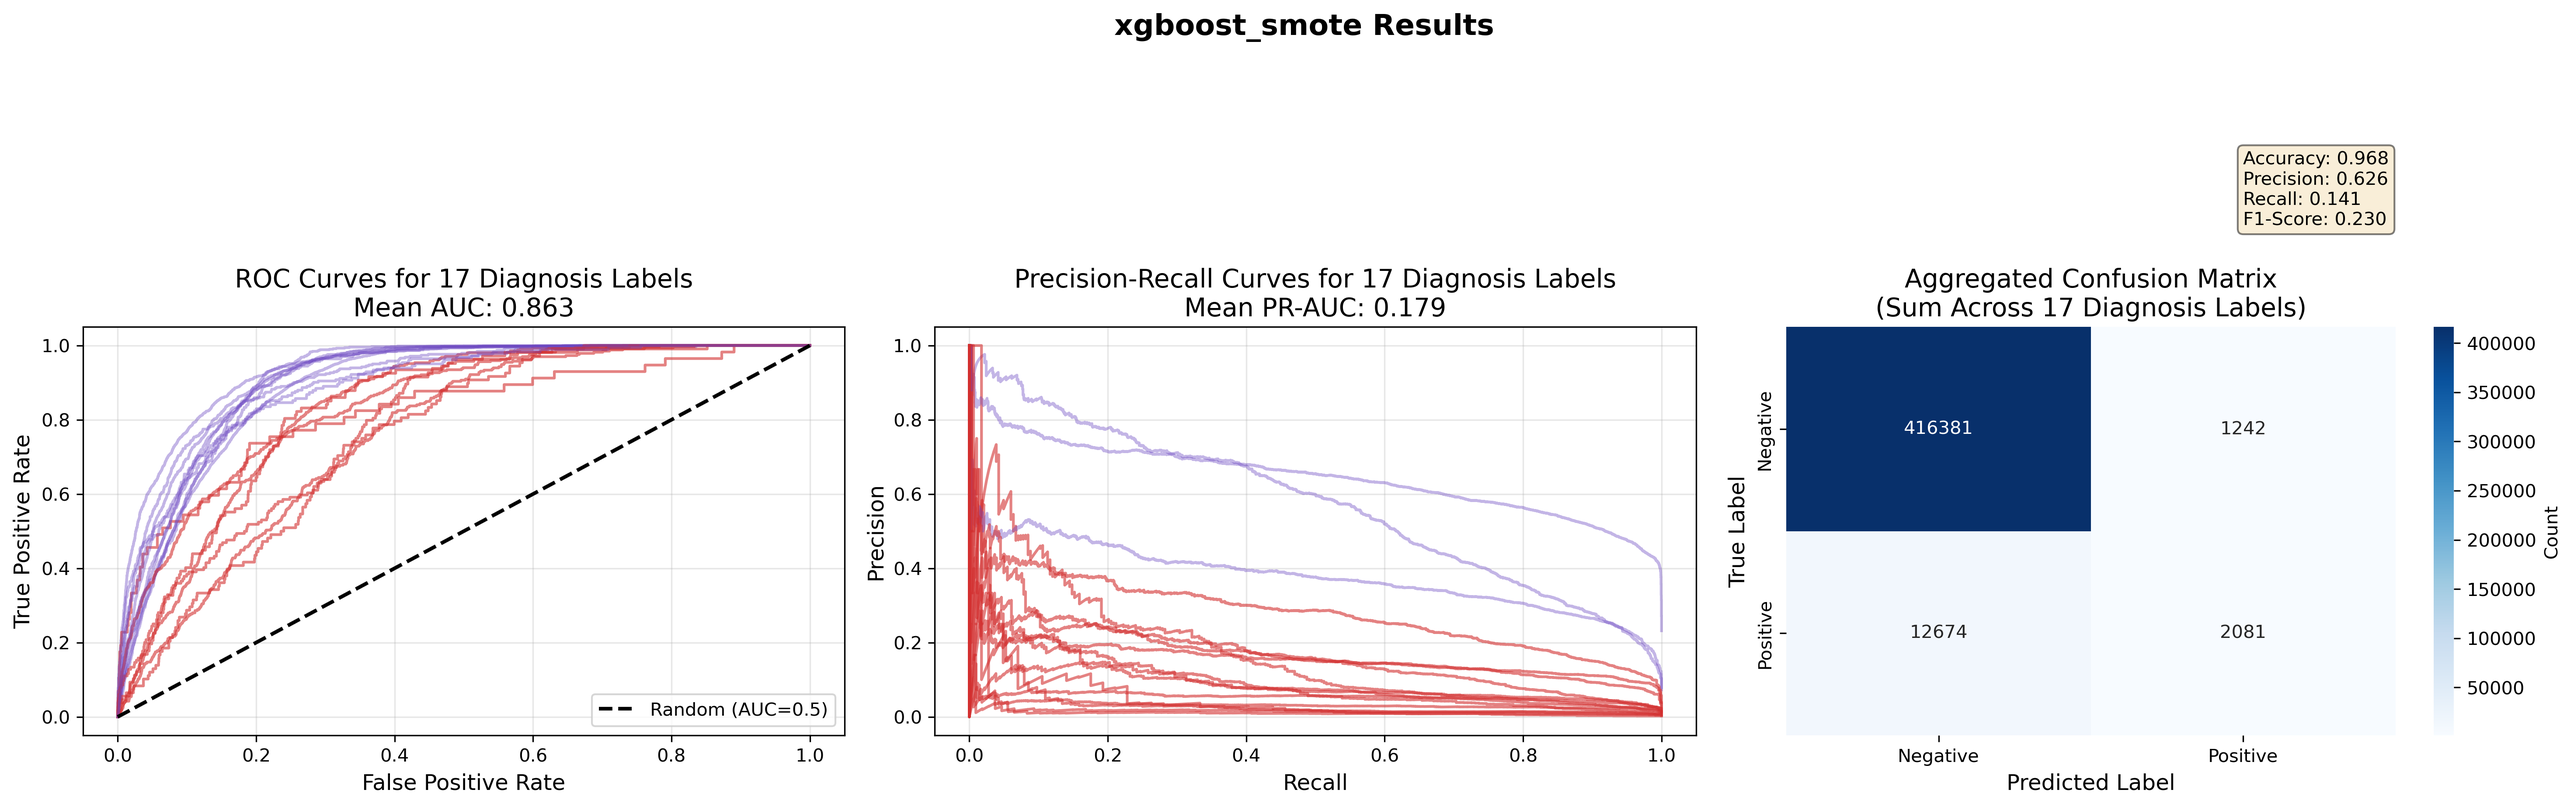
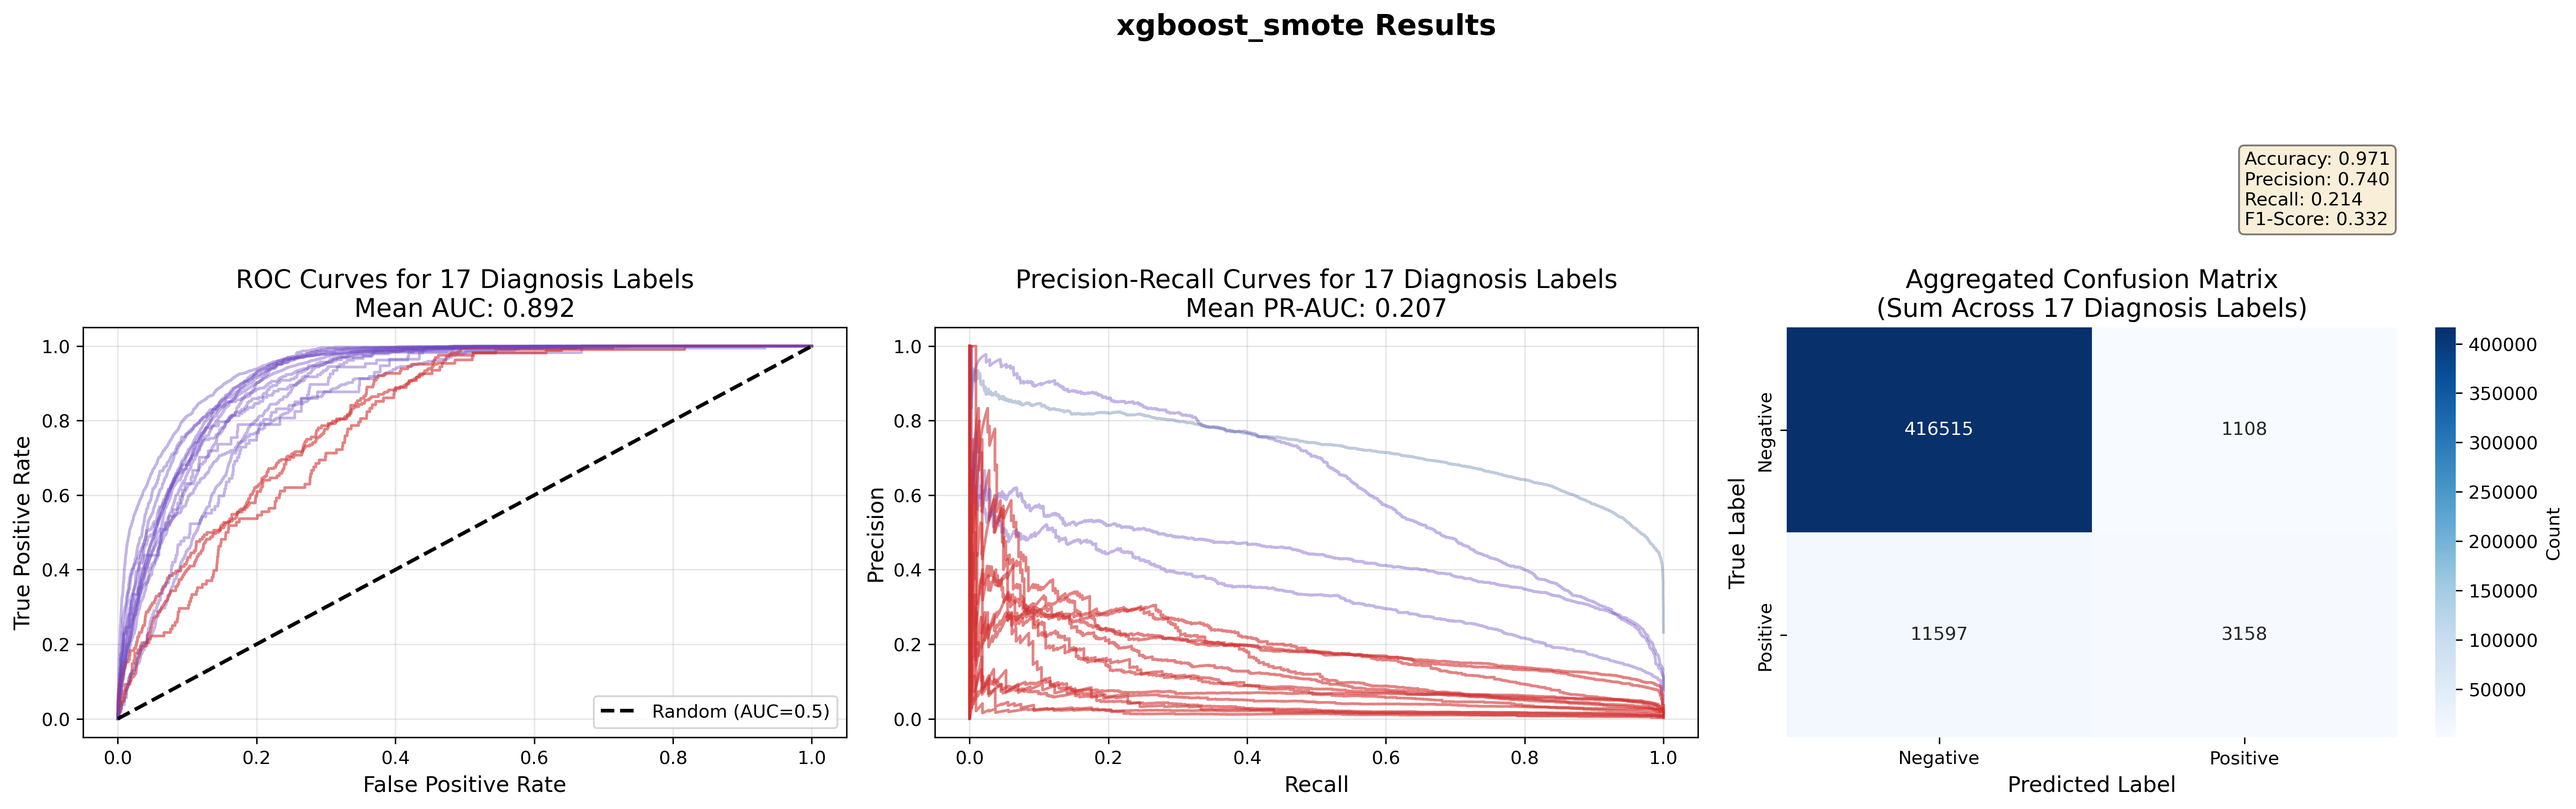
Adding mlp results

diff --git a/src/models/xgboost.py b/src/models/xgboost.py
@@ -1,6 +1,5 @@
 import warnings
 warnings.filterwarnings("ignore", category=FutureWarning, module="sklearn")
-
 import warnings
 import sys
 from tqdm import tqdm
@@ -19,7 +18,6 @@ from src.models.tabular_utils import (
     create_train_test_set,
     scale_features,
     compute_scale_pos_weights,
-    smote_resample_low_prevalence,
     evaluate_and_visualize_multilabel_model,
 )
 
@@ -198,11 +196,84 @@ def run_xgboost_weighted_pipeline(in_dir, config_path, out_path):
 
 
 # =============================================================================
-# SMOTE (normalized + SMOTE on labels < 3% prevalence)
+# Capped SMOTE helper (mirrors MLP _cap_smote)
+# =============================================================================
+
+def _cap_smote(X_train, y_train, prevalence_threshold=0.03, max_prevalence=0.15, random_state=42):
+    """
+    Apply SMOTE per label with a hard cap on synthetic row generation.
+
+    For each label below `prevalence_threshold`, generates synthetic rows until
+    that label reaches `max_prevalence`. This prevents over-generation on
+    extremely rare labels.
+    """
+    import pandas as pd
+    from imblearn.over_sampling import SMOTE
+
+    n_orig = len(X_train)
+    low_prev_labels = [
+        col for col in y_train.columns
+        if y_train[col].mean() < prevalence_threshold and y_train[col].sum() > 1
+    ]
+
+    if not low_prev_labels:
+        return X_train.reset_index(drop=True), y_train.reset_index(drop=True), 0, []
+
+    X_synthetic_all = []
+    y_synthetic_all = []
+
+    for col in low_prev_labels:
+        n_pos_orig = int(y_train[col].sum())
+
+        # Solve for how many synthetic positives reach max_prevalence:
+        # max_prevalence = (n_pos_orig + n_syn) / (n_orig + n_syn)
+        # => n_syn = (max_prevalence * n_orig - n_pos_orig) / (1 - max_prevalence)
+        n_syn_cap = int((max_prevalence * n_orig - n_pos_orig) / (1.0 - max_prevalence))
+        if n_syn_cap <= 0:
+            continue  # already at or above the cap
+
+        smote = SMOTE(random_state=random_state)
+        X_res, y_res = smote.fit_resample(X_train, y_train[col])
+
+        n_synthetic = len(X_res) - n_orig
+        if n_synthetic <= 0:
+            continue
+
+        # Only keep up to n_syn_cap synthetic rows for this label
+        n_keep = min(n_synthetic, n_syn_cap)
+        X_new = pd.DataFrame(X_res[n_orig: n_orig + n_keep], columns=X_train.columns)
+
+        # Synthetic rows: positive for this label, zero for all others
+        y_new = pd.DataFrame(0, index=range(n_keep), columns=y_train.columns)
+        y_new[col] = 1
+
+        X_synthetic_all.append(X_new)
+        y_synthetic_all.append(y_new)
+
+    if X_synthetic_all:
+        X_resampled = pd.concat([X_train] + X_synthetic_all, ignore_index=True)
+        y_resampled = pd.concat([y_train] + y_synthetic_all, ignore_index=True)
+        n_added = len(X_resampled) - n_orig
+    else:
+        X_resampled = X_train.reset_index(drop=True)
+        y_resampled = y_train.reset_index(drop=True)
+        n_added = 0
+
+    return X_resampled, y_resampled, n_added, low_prev_labels
+
+
+# =============================================================================
+# SMOTE (normalized + capped oversampling on labels < 3% prevalence)
 # =============================================================================
 
 def run_xgboost_smote_pipeline(in_dir, config_path, out_path):
-    """XGBoost pipeline with StandardScaler normalization and SMOTE oversampling."""
+    """
+    XGBoost + SMOTE: normalize then oversample labels with prevalence < 3%.
+
+    Synthetic rows are capped so each smoted label reaches at most 15%
+    prevalence in the combined training set, preventing over-generation on
+    extremely rare labels.
+    """
     warnings.filterwarnings("ignore", category=FutureWarning, module="sklearn")
 
     steps = [
@@ -213,7 +284,7 @@ def run_xgboost_smote_pipeline(in_dir, config_path, out_path):
         "Creating model dataframe",
         "Preparing features",
         "Creating train/test split & scaling",
-        "Applying SMOTE to low-prevalence labels",
+        "Applying capped SMOTE",
         "Training XGBoost model",
         "Evaluating model",
     ]
@@ -234,20 +305,30 @@ def run_xgboost_smote_pipeline(in_dir, config_path, out_path):
         X_train, X_test, _ = scale_features(X_train, X_test, cols_to_scale)
 
         pbar.set_description(steps[7])
-        X_train, y_train = smote_resample_low_prevalence(
-            X_train, y_train, prevalence_threshold=0.03, target_ratio=0.10,
+        X_train, y_train, n_added, smoted_labels = _cap_smote(
+            X_train, y_train,
+            prevalence_threshold=0.03,
+            max_prevalence=0.15,
+        )
+        print(
+            f"\n  SMOTE: {n_added} synthetic rows added across "
+            f"{len(smoted_labels)} labels (capped at 15% prevalence each)"
         )
         pbar.update(1)
 
         pbar.set_description(steps[8])
-        multi_xgb = MultiOutputClassifier(
-            XGBClassifier(
+        estimators = []
+        for col in y_train.columns:
+            clf = XGBClassifier(
                 n_estimators=100, max_depth=5, learning_rate=0.1,
                 eval_metric="logloss", random_state=42,
-            ),
-            n_jobs=-1,
-        )
-        multi_xgb.fit(X_train, y_train)
+            )
+            clf.fit(X_train, y_train[col])
+            estimators.append(clf)
+
+        multi_xgb = MultiOutputClassifier(XGBClassifier(), n_jobs=-1)
+        multi_xgb.estimators_ = estimators
+        multi_xgb.n_outputs_  = len(estimators)
         pbar.update(1)
 
         pbar.set_description(steps[9])

diff --git a/src/models/tabular_utils.py b/src/models/tabular_utils.py
@@ -275,7 +275,7 @@ def scale_features(X_train, X_test, cols_to_scale):
 # SMOTE resampling (used by SMOTE variant)
 # =============================================================================
 
-def smote_resample_low_prevalence(X_train, y_train, prevalence_threshold=0.08, random_state=42):
+def smote_resample_low_prevalence(X_train, y_train, prevalence_threshold=0.08, target_ratio=0.15, random_state=42):
     """
     Apply SMOTE independently per label to training data for labels whose
     positive prevalence falls below `prevalence_threshold`.
@@ -283,6 +283,9 @@ def smote_resample_low_prevalence(X_train, y_train, prevalence_threshold=0.08, r
     Because SMOTE requires a single binary target, we iterate over each
     low-prevalence label, resample X/y for that label, then stitch the
     synthetic rows back into the full training set.
+
+    `target_ratio` sets the desired minority/majority ratio after resampling
+    (passed as sampling_strategy to SMOTE). Default 0.15 = 15%.
     """
     low_prev_labels = [
         col for col in y_train.columns
@@ -296,7 +299,7 @@ def smote_resample_low_prevalence(X_train, y_train, prevalence_threshold=0.08, r
     y_synthetic_all = []
 
     for col in low_prev_labels:
-        smote = SMOTE(random_state=random_state)
+        smote = SMOTE(sampling_strategy=target_ratio, random_state=random_state)
         X_res, y_res = smote.fit_resample(X_train, y_train[col])
 
         # Only keep the newly generated synthetic rows (appended at the end by SMOTE)
@@ -321,7 +324,7 @@ def smote_resample_low_prevalence(X_train, y_train, prevalence_threshold=0.08, r
         X_resampled = X_train.reset_index(drop=True)
         y_resampled = y_train.reset_index(drop=True)
 
-    return X_resampled, y_resampled, n_added, low_prev_labels
+    return X_resampled, y_resampled
 
 
 # =============================================================================
